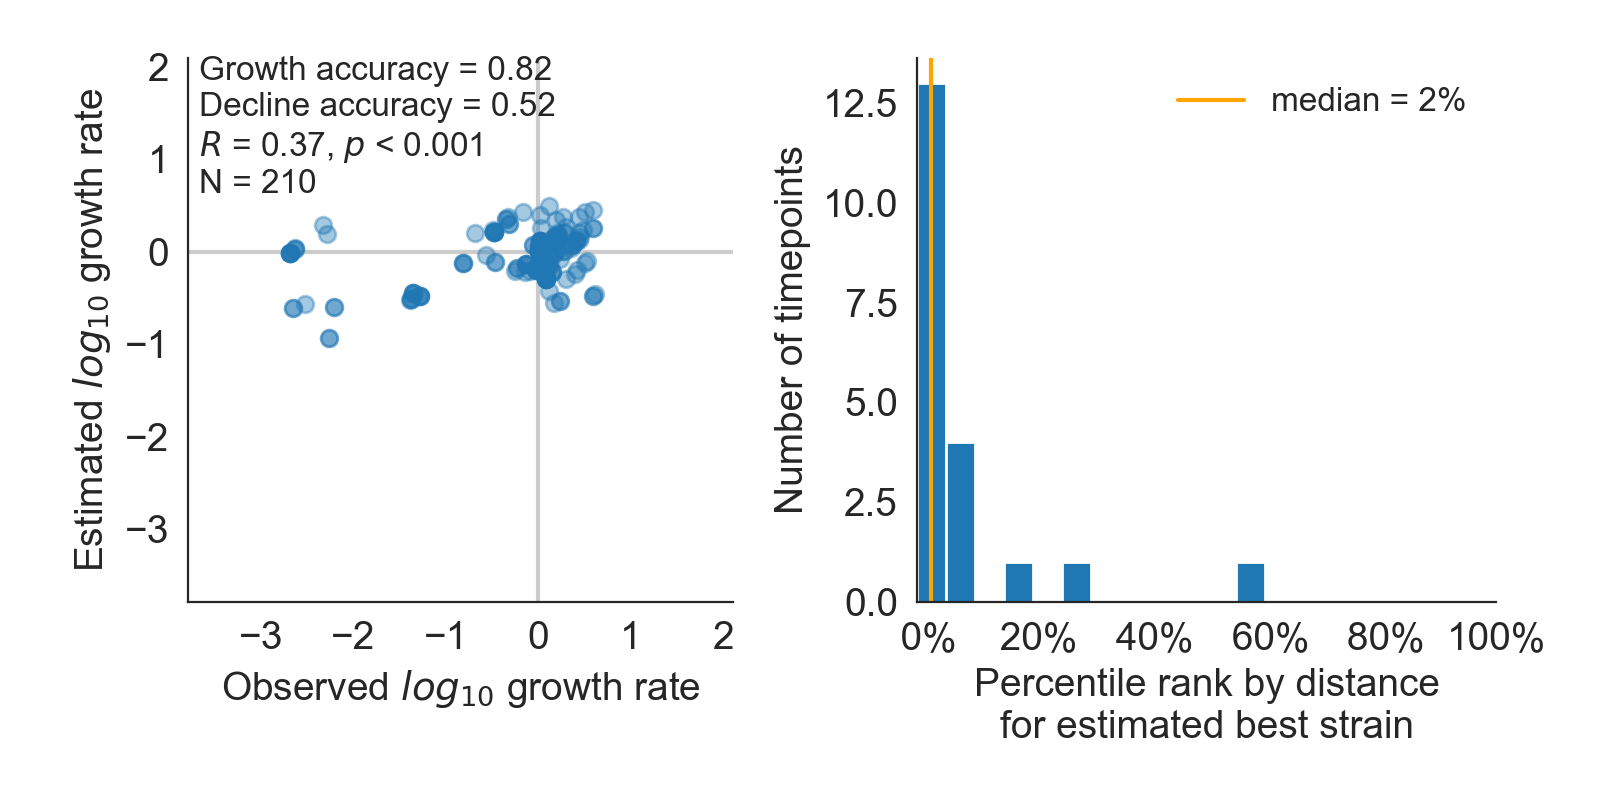
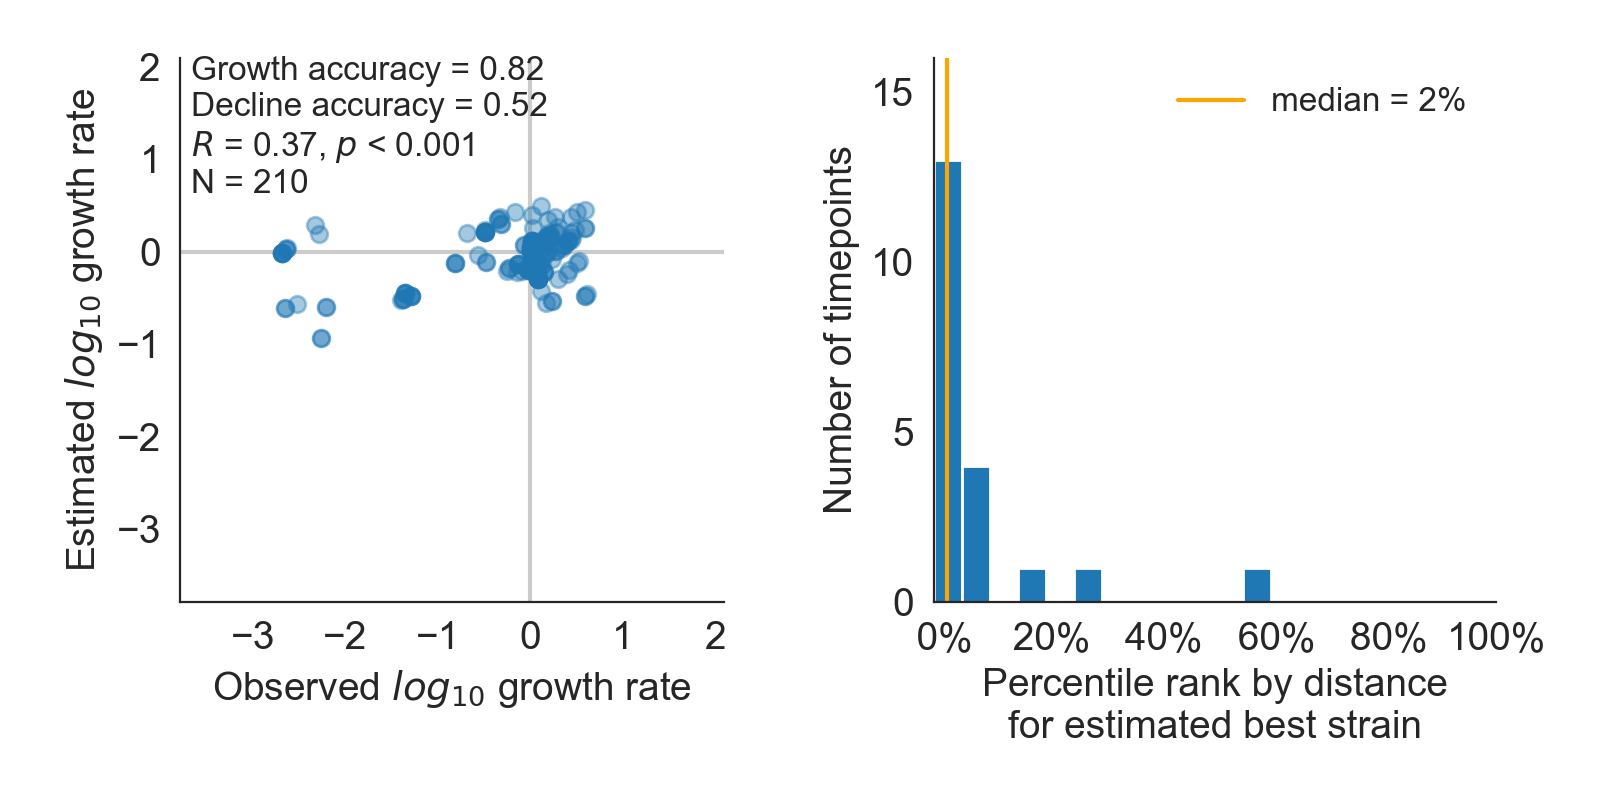
Update best model validation/test rank results after fixing bug
After fixing figures in an earlier commit where the estimated best strain at
each timepoint was being selected by fitness instead of estimated distance to
the future, this commit updates the corresponding text and also improves the
aesthetics of the y-axis tick labels for the simulated population test results
figure.

diff --git a/manuscript/main.tex b/manuscript/main.tex
@@ -155,7 +155,7 @@ We sought to validate the best performing model (true fitness) using two metrics
 First, we measured the ability of the true fitness model to accurately estimate dynamics of large clades (initial frequency $>15\%$) by correlating estimated and observed clade growth rates.
 Our model satisfactorily recapitulated clade dynamics with a growth rate correlation of $R = 0.72$~$(p < 0.001)$ and overall accuracies for clade growth and decline predictions of 87\% and 58\%, respectively (Supplemental Fig.~\ref{sup_fig:validation_of_best_model_for_simulated_populations}A).
 Next, we counted how often the estimated closest strain to the future population at any given timepoint ranked among the observed top closest strains to the future.
-The estimated best strain was in the top 4th percentile of observed closest strains for half of the validation timepoints and in the top 20th percentile for 82\% of timepoints (Supplemental Fig.~\ref{sup_fig:validation_of_best_model_for_simulated_populations}B).
+The estimated best strain was in the top 2nd percentile of observed closest strains for half of the validation timepoints and in the top 20th percentile for 97\% of timepoints (Supplemental Fig.~\ref{sup_fig:validation_of_best_model_for_simulated_populations}B).
 
 Finally, we tested all of our models on out-of-sample data.
 Specifically, we fixed the coefficients of each model to the average values across the training/validation period and applied the resulting models to the next 10 years of previously unobserved simulated data.
@@ -168,7 +168,7 @@ Both the composite and true fitness models outperformed the naive model at 95\% 
 
 As with our validation dataset, we tested the true fitness model's ability to recapitulate clade dynamics and select optimal individual strains from the test data.
 We observed a growth rate correlation of $R = 0.37$~$(p < 0.001)$ and clade growth and decline prediction accuracies of 82\% and 52\%, respectively (Supplemental Fig.~\ref{fig:test_of_best_model_for_simulated_populations}A).
-The estimated best strain was in the top 5th percentile of observed closest strains for half of the validation timepoints and in the top 20th percentile for 70\% of timepoints (Supplemental Fig.~\ref{fig:test_of_best_model_for_simulated_populations}B).
+The estimated best strain was in the top 2nd percentile of observed closest strains for half of the test timepoints and in the top 20th percentile for 90\% of timepoints (Supplemental Fig.~\ref{fig:test_of_best_model_for_simulated_populations}B).
 These results confirm that our approach of minimizing the distance between yearly populations can simulataneously capture clade-level dynamics of these populations and identify optimal individual strains as vaccine candidates.
 These results also highlight a well-established yet critical point that true forecasts on out-of-sample data are less accurate than those based on training and validation data.
 
